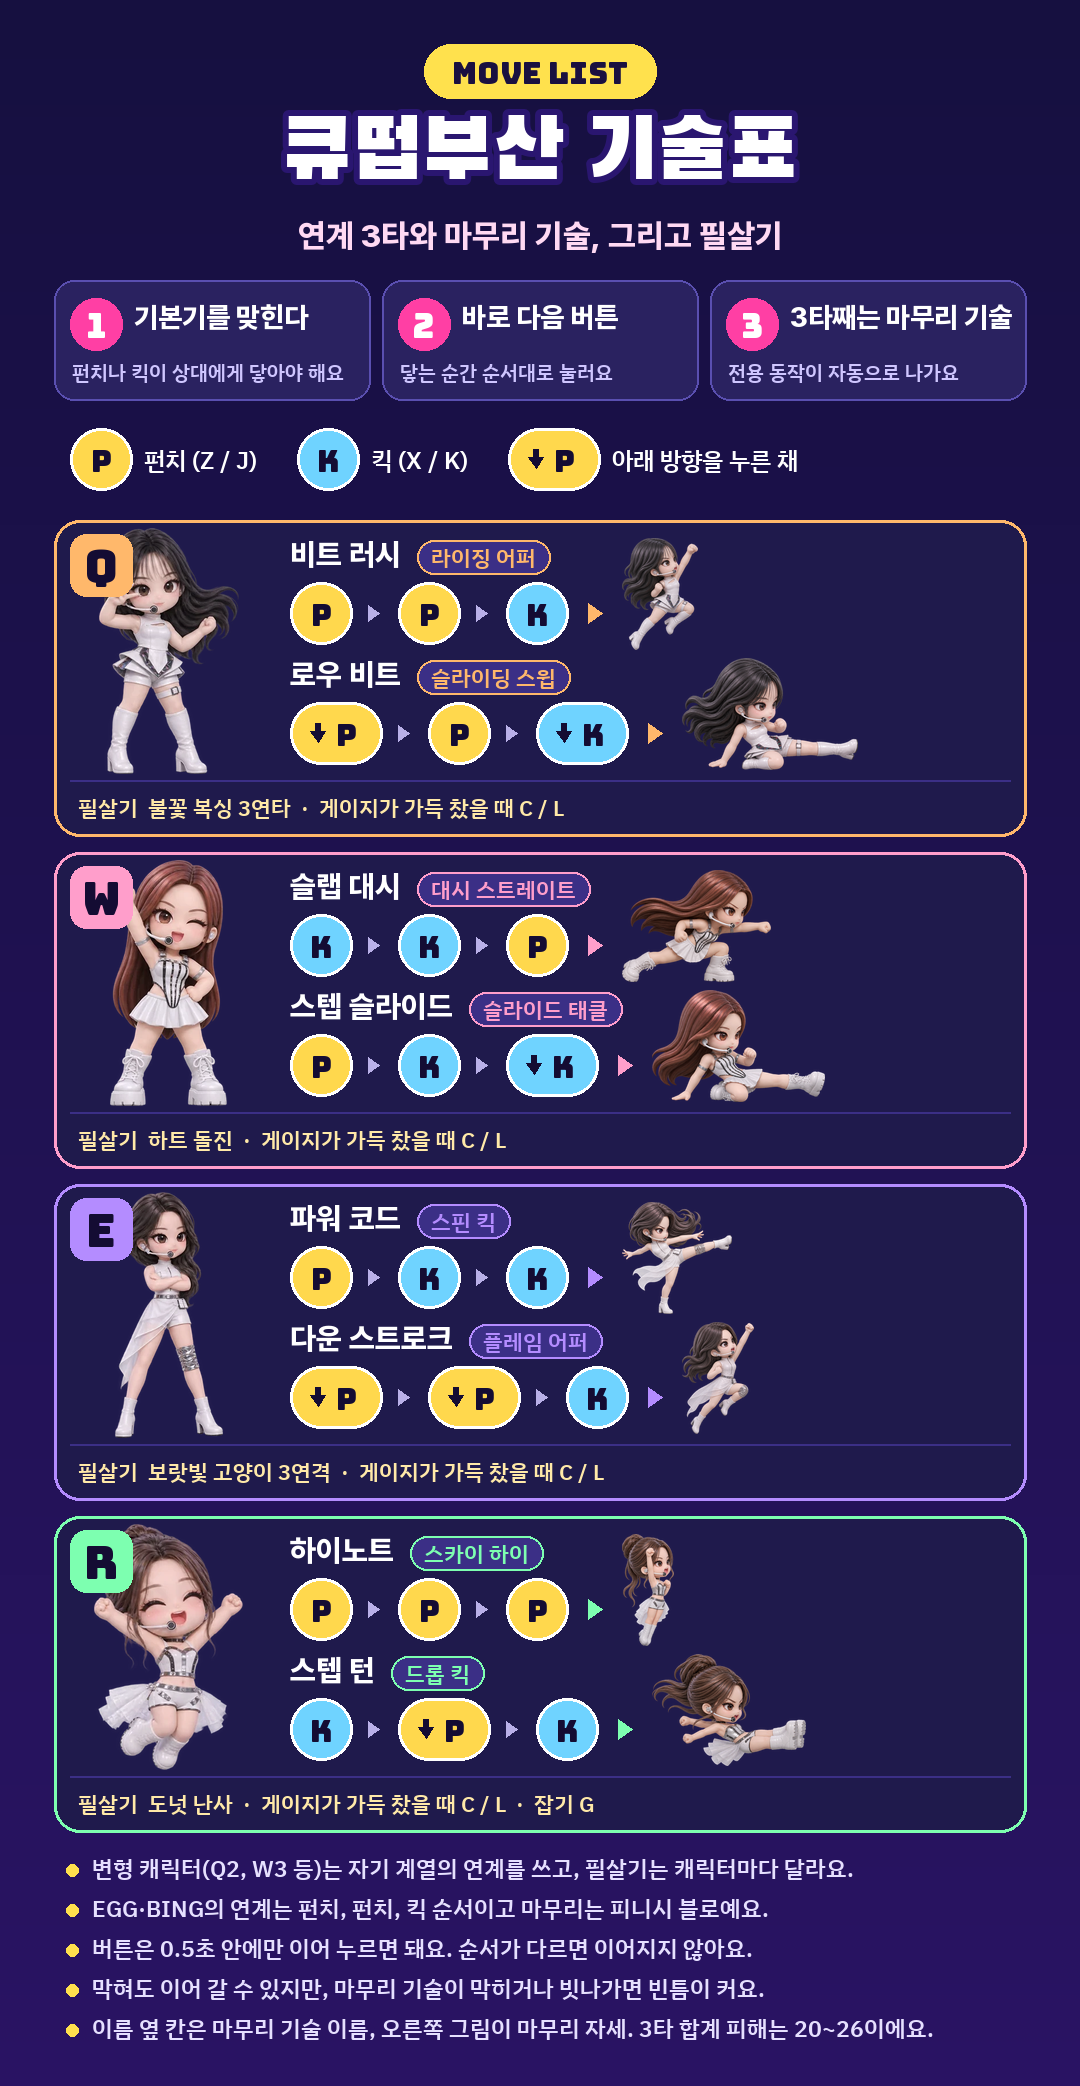
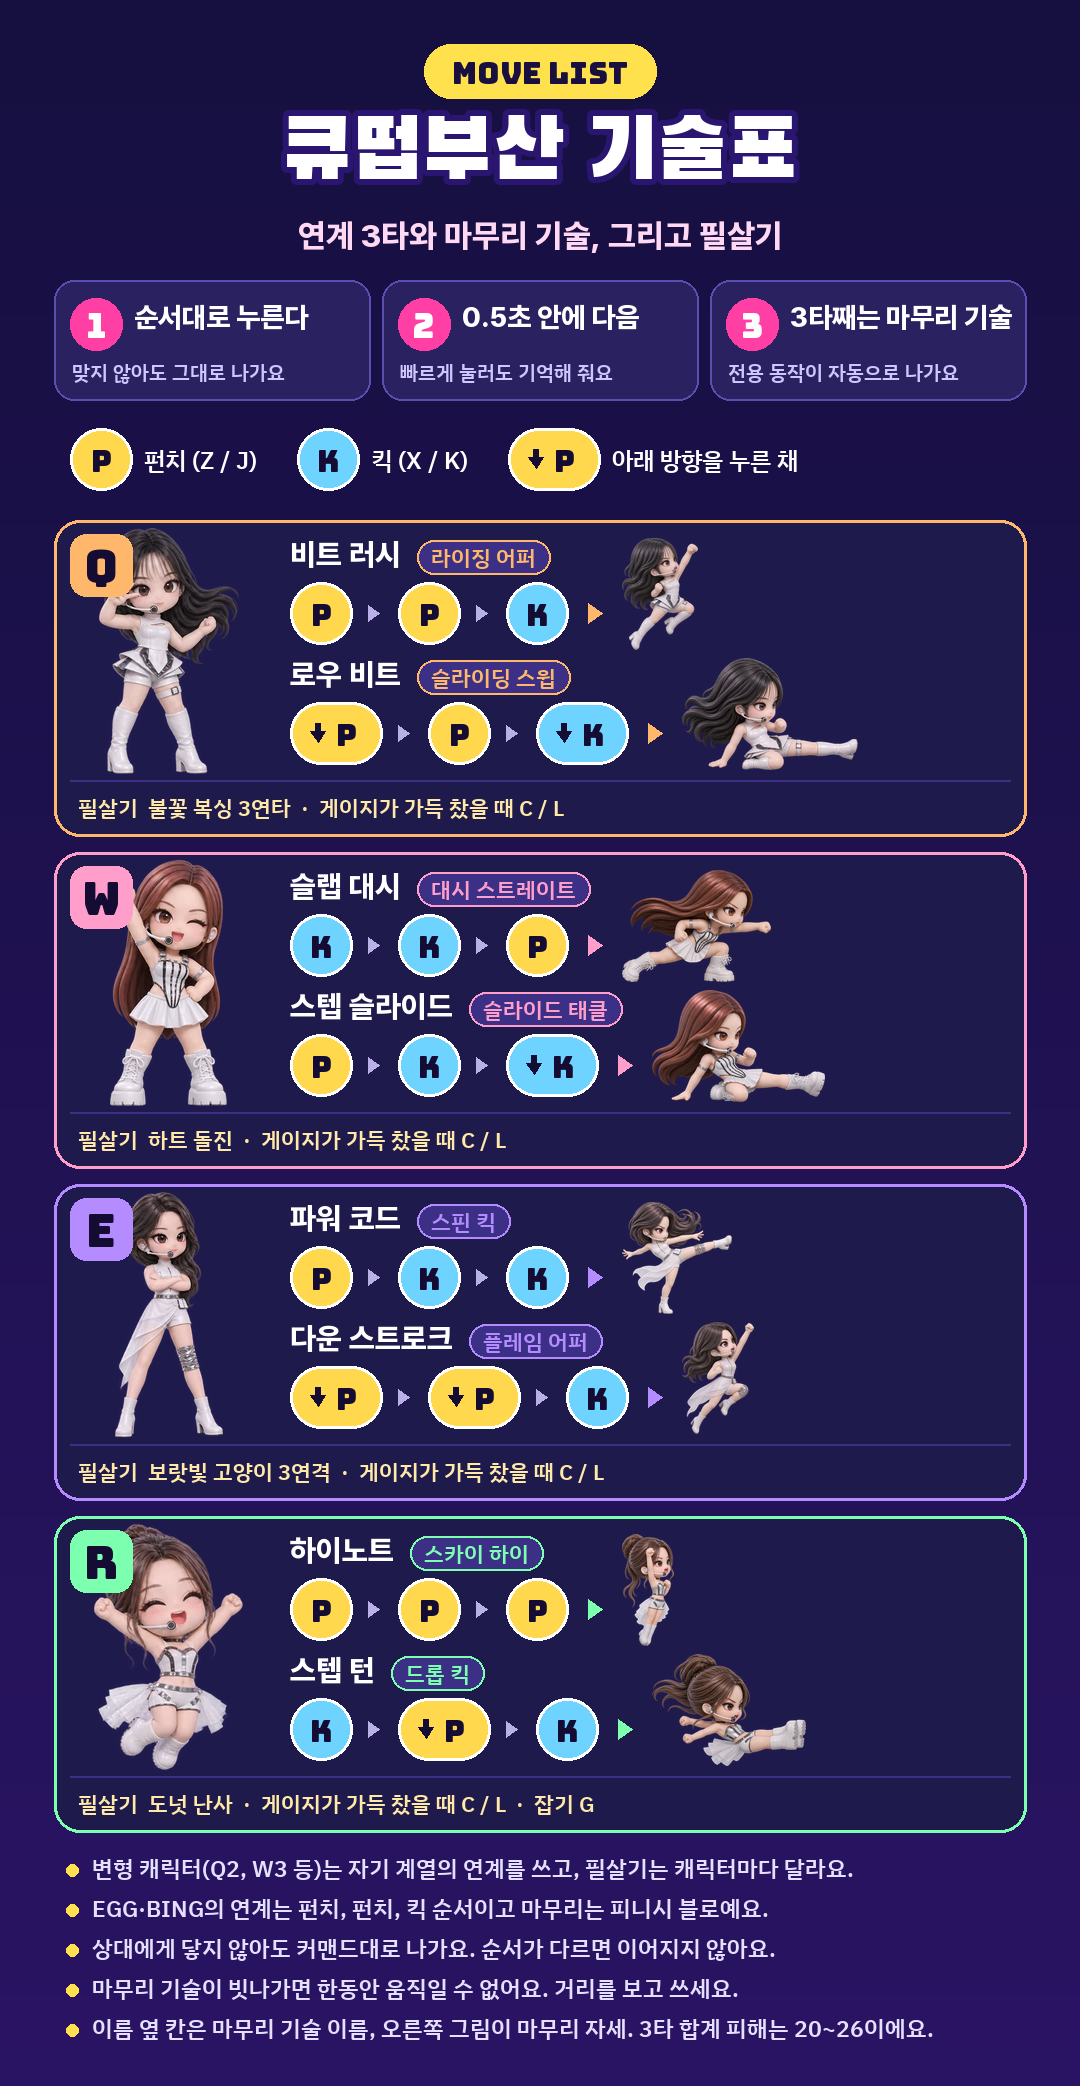
연계 기술: 닿지 않아도 커맨드대로 발동, 빠른 연타 입력 유실 수정

Changed region(s): [[0.0917, 0.9036, 0.7028, 0.966], [0.0611, 0.1246, 0.3056, 0.187], [0.3667, 0.1246, 0.5806, 0.187]]

diff --git a/js/fight.js b/js/fight.js
@@ -5,7 +5,7 @@ function mkF(ch,x,face,cpu){return{ch,x,y:0,vx:0,vy:0,face,cpu,hp:CH[ch].hp,dhp:
 function setSt(f,s){f.st=s;f.t=0;f.hitDone=false;f.thrown=false}
 function startMatch(){
   needBg(stage);show(null);level=Math.min(6,streak);usedSp={};
-  P=mkF(pick,WW/2-190,1,false);C=mkF(opp,WW/2+190,-1,true);P.buf=buf;round=1;amb=[];loadVoices(BASE_CHARACTER[pick]);loadVoices(BASE_CHARACTER[opp]);warmCeremony(pick);warmCeremony(opp);
+  P=mkF(pick,WW/2-190,1,false);C=mkF(opp,WW/2+190,-1,true);P.buf=buf;if(net)C.buf=rbuf;round=1;amb=[];loadVoices(BASE_CHARACTER[pick]);loadVoices(BASE_CHARACTER[opp]);warmCeremony(pick);warmCeremony(opp);
   for(let i=0;i<26;i++)amb.push({x:Math.random()*VW,y:Math.random()*VH,s:.5+Math.random(),p:Math.random()*6.28});
   const canThrow=BASE_CHARACTER[ME().ch]==='R';
   $('bG').hidden=$('throwKey').hidden=$('pkG').hidden=!canThrow;
@@ -210,14 +210,14 @@ const FINISHERS={
 const finisherOf=f=>FINISHERS[f.fn]||FINISHERS.X0;
 function startFinisher(f,route){
   const base=BASE_CHARACTER[f.ch],list=CHAIN_ROUTES[base];
-  setSt(f,'fin');f.fn=list?base+list.indexOf(route):'X0';f.cs='';f.cw=0;f.trail=[];
+  setSt(f,'fin');f.fn=list?base+list.indexOf(route):'X0';f.cs='';f.cw=0;f.cb='';f.trail=[];
   const d=finisherOf(f);f.vx=f.face*d.vx;if(d.vy){f.vy=d.vy;f.y=Math.max(f.y,.01)}
-  sfx.whoosh(1.3);if(f.buf)f.buf.p=f.buf.k=0}
+  sfx.whoosh(1.3)}
 const chainFits=(f,seq)=>chainRoutes(f).find(r=>seq.length<=r.seq.length&&seq.every((s,i)=>r.seq[i]===s));
 function chainEnter(f,cand){
   const route=chainFits(f,cand);
   if(cand.length===route.seq.length){startFinisher(f,route);return}
-  setSt(f,cand[cand.length-1]);f.cs=cand.join('>');f.cw=0;f.vx=f.face*260;sfx.whoosh(1);if(f.buf)f.buf.p=f.buf.k=0}
+  setSt(f,cand[cand.length-1]);f.cs=cand.join('>');f.cw=0;f.vx=f.face*260;sfx.whoosh(1)}
 function chainStep(f){
   const seq=(f.cs||'').split('>');if(seq.length<2||seq[seq.length-1]!==f.st)return null;
   return chainFits(f,seq)||null}
@@ -225,18 +225,23 @@ function chainHit(f,a){
   if(!chainStep(f))return chainFits(f,[f.st])?{...a,stun:Math.max(a.stun,.36)}:a;
   return{...a,dmg:a.dmg*.6,stun:Math.max(a.stun,.42),push:a.push*.5,reach:a.reach+40,kd:0}}
 function chainTime(f){return chainStep(f)?.8:1}
-function chainNext(f,button,down){
-  const seq=(f.cs||f.st).split('>'),order=button==='p'?(down?['cpunch','punch']:['punch','cpunch']):(down?['ckick','kick']:['kick','ckick']);
+function chainNext(f,button,down,from){
+  const seq=(from||f.cs||f.st).split('>'),order=button==='p'?(down?['cpunch','punch']:['punch','cpunch']):(down?['ckick','kick']:['kick','ckick']);
   for(const next of order){if(next[0]==='c'&&!canCrouch(f))continue;const cand=seq.concat(next);if(chainFits(f,cand))return cand}
   return null}
+function chainPress(f,I,from){
+  for(const button of ['p','k']){if(!I[button])continue;const next=chainNext(f,button,I.down,from);if(next){if(f.buf)f.buf[button]=0;return next}}
+  return null}
 function chainResume(f,I){
-  if(!(f.cw>0)||!f.cs||!(I.p||I.k))return false;
-  const cand=chainNext(f,I.p?'p':'k',I.down);if(!cand)return false;
+  if(!(f.cw>0)||!f.cs)return false;
+  const cand=chainPress(f,I);if(!cand)return false;
   chainEnter(f,cand);return true}
-function tryChain(f,I){
-  if(!f.hitDone||!(I.p||I.k))return false;
-  const cand=chainNext(f,I.p?'p':'k',I.down);if(!cand)return false;
-  chainEnter(f,cand);return true}
+function tryChain(f,I,ready){
+  const next=chainPress(f,I,f.cb);if(next)f.cb=next.join('>');
+  if(!f.cb||!ready)return false;
+  const done=(f.cs||f.st).split('>').length,target=f.cb.split('>');if(target.length<=done){f.cb='';return false}
+  const cand=target.slice(0,done+1);if(cand.length===target.length)f.cb='';chainEnter(f,cand);return true}
+function chainEnd(f){f.cw=Math.max(f.cw||0,.3);f.cb=''}
 function stepF(f,o,dt){
   const I=f.inp,K=CH[f.ch];f.t+=dt;f.cw=Math.max(0,(f.cw||0)-dt);const gr=f.y<=0&&f.vy<=0;f.slip=Math.max(0,(f.slip||0)-dt);f.rev=Math.max(0,(f.rev||0)-dt);f.dizzy=Math.max(0,(f.dizzy||0)-dt);if(f.rev>0){const q=I.l;I.l=I.r;I.r=q}
   if(phase!=='fight'&&(f.st==='idle'||f.st==='walk'||f.st==='guard'||f.st==='crouch')){f.vx=0;if(f.st!=='idle')setSt(f,'idle')}
@@ -247,11 +252,11 @@ function stepF(f,o,dt){
       else if(I.g&&BASE_CHARACTER[f.ch]==='R'){setSt(f,'throw');f.vx=0;if(f.buf)f.buf.g=0;sfx.whoosh(.8)}
       else if(chainResume(f,I)){}
       else if(I.down&&canCrouch(f)){
-        if(I.p){setSt(f,'cpunch');f.cs='cpunch';f.vx=0;sfx.whoosh(.7);if(f.buf)f.buf.p=0}
-        else if(I.k){setSt(f,'ckick');f.cs='ckick';f.vx=f.face*20;sfx.whoosh(.9);if(f.buf)f.buf.k=0}
+        if(I.p){setSt(f,'cpunch');f.cs='cpunch';f.cb='';f.vx=0;sfx.whoosh(.7);if(f.buf)f.buf.p=0}
+        else if(I.k){setSt(f,'ckick');f.cs='ckick';f.cb='';f.vx=f.face*20;sfx.whoosh(.9);if(f.buf)f.buf.k=0}
         else{f.vx=0;if(f.st!=='crouch')setSt(f,'crouch')}}
-      else if(I.p){setSt(f,'punch');f.cs='punch';f.vx=f.face*40*(K.lunge||1);sfx.whoosh(.8);if(f.buf)f.buf.p=0}
-      else if(I.k){setSt(f,'kick');f.cs='kick';f.vx=f.face*30*(K.lunge||1);sfx.whoosh(1);if(f.buf)f.buf.k=0}
+      else if(I.p){setSt(f,'punch');f.cs='punch';f.cb='';f.vx=f.face*40*(K.lunge||1);sfx.whoosh(.8);if(f.buf)f.buf.p=0}
+      else if(I.k){setSt(f,'kick');f.cs='kick';f.cb='';f.vx=f.face*30*(K.lunge||1);sfx.whoosh(1);if(f.buf)f.buf.k=0}
       else if(I.up){f.vy=K.jump;f.y=.01;setSt(f,'jump');f.airAtk=false;f.vx=(I.r-I.l)*K.speed*.95;sfx.jump()}
       else if(f.slip<=0&&(!net&&f.cpu?I.gd:(f.face>0?I.l&&!I.r:I.r&&!I.l))){
         if(f.st!=='guard')setSt(f,'guard');
@@ -261,10 +266,10 @@ function stepF(f,o,dt){
   }
   else if(f.st==='jump'){ if((I.p||I.k)&&!f.airAtk&&f.t>.08){f.airAtk=true;f.atkT=0;f.hitDone=false;sfx.whoosh(1);if(f.buf)f.buf.p=f.buf.k=0}
     if(f.airAtk){f.atkT+=dt;if(f.atkT<.4)tryHit(f,o,{reach:122,dmg:K.kd-1,stun:.3,push:240,vr:150,hy:140})} }
-  else if(f.st==='punch'){f.vx*=Math.pow(.001,dt);if(!tryChain(f,I)){const T=K.timing*chainTime(f);if(f.t>.07*T&&f.t<.18*T)tryHit(f,o,chainHit(f,{reach:112,dmg:K.pd,stun:.22,push:150,hy:150,kind:'p',high:1}));if(f.t>.3*T)setSt(f,'idle')}}
-  else if(f.st==='kick'){f.vx*=Math.pow(.001,dt);if(!tryChain(f,I)){const T=K.timing*chainTime(f);if(f.t>.13*T&&f.t<.28*T)tryHit(f,o,chainHit(f,{reach:136,dmg:K.kd,stun:.32,push:290,hy:135,kind:'k',high:1}));if(f.t>.47*T)setSt(f,'idle')}}
-  else if(f.st==='cpunch'){f.vx*=Math.pow(.001,dt);if(!tryChain(f,I)){const T=K.timing*chainTime(f);if(f.t>.06*T&&f.t<.16*T)tryHit(f,o,chainHit(f,{reach:108,dmg:K.pd,stun:.2,push:120,hy:105,kind:'p'}));if(f.t>.28*T)setSt(f,I.down?'crouch':'idle')}}
-  else if(f.st==='ckick'){f.vx*=Math.pow(.001,dt);if(!tryChain(f,I)){const T=K.timing*chainTime(f);if(f.t>.12*T&&f.t<.26*T)tryHit(f,o,chainHit(f,{reach:150,dmg:K.kd*.8,stun:.34,push:220,hy:55,kind:'l',kd:1}));if(f.t>.46*T)setSt(f,I.down?'crouch':'idle')}}
+  else if(f.st==='punch'){f.vx*=Math.pow(.001,dt);const T=K.timing*chainTime(f);if(!tryChain(f,I,f.hitDone||f.t>.18*T)){if(f.t>.07*T&&f.t<.18*T)tryHit(f,o,chainHit(f,{reach:112,dmg:K.pd,stun:.22,push:150,hy:150,kind:'p',high:1}));if(f.t>.3*T){chainEnd(f);setSt(f,'idle')}}}
+  else if(f.st==='kick'){f.vx*=Math.pow(.001,dt);const T=K.timing*chainTime(f);if(!tryChain(f,I,f.hitDone||f.t>.28*T)){if(f.t>.13*T&&f.t<.28*T)tryHit(f,o,chainHit(f,{reach:136,dmg:K.kd,stun:.32,push:290,hy:135,kind:'k',high:1}));if(f.t>.47*T){chainEnd(f);setSt(f,'idle')}}}
+  else if(f.st==='cpunch'){f.vx*=Math.pow(.001,dt);const T=K.timing*chainTime(f);if(!tryChain(f,I,f.hitDone||f.t>.16*T)){if(f.t>.06*T&&f.t<.16*T)tryHit(f,o,chainHit(f,{reach:108,dmg:K.pd,stun:.2,push:120,hy:105,kind:'p'}));if(f.t>.28*T){chainEnd(f);setSt(f,I.down?'crouch':'idle')}}}
+  else if(f.st==='ckick'){f.vx*=Math.pow(.001,dt);const T=K.timing*chainTime(f);if(!tryChain(f,I,f.hitDone||f.t>.26*T)){if(f.t>.12*T&&f.t<.26*T)tryHit(f,o,chainHit(f,{reach:150,dmg:K.kd*.8,stun:.34,push:220,hy:55,kind:'l',kd:1}));if(f.t>.46*T){chainEnd(f);setSt(f,I.down?'crouch':'idle')}}}
   else if(f.st==='throw'){
     if(!f.hitDone&&f.t>=R_THROW.startup){
       f.hitDone=true;
@@ -312,7 +317,7 @@ function stepF(f,o,dt){
     if(!d.vy)f.vx=f.t<d.dur&&!f.hitDone?f.face*d.vx:f.vx*Math.pow(.001,dt);
     if(d.dust&&f.t<d.dur&&Math.random()<.5)dust(f.x-f.face*40);
     if(f.t>d.from&&f.t<d.to)tryHit(f,o,{...d.hit,dmg:K.kd*d.dmg,fin:d.name,col:d.col});
-    if(d.vy?(f.t>.12&&f.y<=0):f.t>d.dur+.16){f.vx=0;setSt(f,'rec')}}
+    if(d.vy?(f.t>.12&&f.y<=0):f.t>d.dur+.16){const whiff=!f.hitDone;f.vx=0;setSt(f,'rec');if(whiff)f.t=-.25}}
   else if(f.st==='rec'){f.vx*=Math.pow(.0005,dt);if(f.t>.26&&f.y<=0)setSt(f,'idle')}
   else if(f.st==='hit'){f.stun-=dt;if(f.stun<=0&&f.y<=0)setSt(f,'idle')}
   else if(f.st==='kd'){f.stun-=dt;if(f.y<=0&&!f.down){f.down=true;dust(f.x);shake=Math.max(shake,5)}if(f.stun<=0&&f.y<=0){f.down=false;setSt(f,'idle')}}

diff --git a/TODO.md b/TODO.md
@@ -384,3 +384,15 @@
 - `notice/move-list.png` (1080×2086) 추가. Q·W·E·R 계열별로 연계 2가지의 버튼 순서, 마무리 기술 이름과 전용 자세 그림, 필살기 이름과 입력을 담음. 이전 `notice/combo-guide.png`는 이것으로 대체해 삭제
 - 연계 순서, 마무리 기술, 필살기를 바꾸면 이 이미지도 다시 만들어야 함
 - 참고: OneDrive가 "613개 항목 삭제" 확인 창을 띄움. git이 낱개 내부 파일 613개를 묶음 파일 하나로 정리하면서 지운 것(`.git/objects`). 저장소 검사 결과 이상 없음
+
+**연계 기술: 닿지 않아도 커맨드대로 발동 (개발 중, 아직 배포 안 함)**
+- 사용자 결정: 커맨드를 누르면 상대에게 맞지 않아도 나가게 함 (철권·버추어 파이터식 스트링). 이전에는 기본기가 닿아야만 이어졌음
+- `fight.js`
+  - `tryChain`: 닿았는지와 상관없이 다음 입력을 `f.cb`에 예약. 현재 공격의 타격 구간이 끝났거나 이미 닿았으면 다음 동작으로 넘어감. 두 단계 앞까지 예약 가능 (빠른 연타 대응)
+  - `chainEnd`: 기본기가 끝나면 0.3초 동안 이어 누르기 가능 (`f.cw`). 닿았을 때는 기존대로 0.5초
+  - `chainPress`: 소비한 버튼의 입력 기록만 지움. 이전에는 두 버튼을 함께 지워, 2타가 실행되는 순간에 누른 3타 입력이 사라졌음 (느린 캐릭터 Q3에서 0.1초 간격으로 재현)
+  - 마무리 기술이 헛치면 회복 시간을 0.25초 더 줌 (빈틈 0.27초 → 0.52초)
+  - 온라인 방장 쪽에서 상대 입력 기록(`rbuf`)을 상대 캐릭터에 연결해, 한 번 누른 버튼이 두 번 먹히지 않게 함
+- `notice/move-list.png`: 안내 문구를 새 규칙으로 수정
+- 확인: 15명 × 모든 연계 × 닿음/헛침 × 입력 간격 15가지(0.03~0.5초) = 840가지 전부 마무리 기술 발동, 닿을 때는 3타 연결. 단발 펀치·킥은 한 번만 나감. CPU 대전 6판 오류 없음
+- 미확인: 온라인 대전(상대 입력 연결 변경 포함), 실제 손으로 하는 조작감
